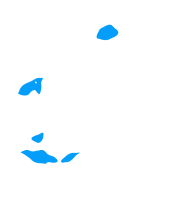
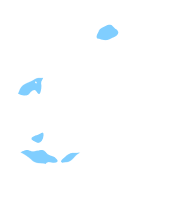
stupid gay ahh website

diff --git a/style.css b/style.css
@@ -22,7 +22,7 @@ body::-webkit-scrollbar {
 body {
     -ms-overflow-style: none;
     scrollbar-width: none;
-    background-color: #039dfc;
+    background-color: #80ceff;
     color: #000;
     font-family: 'Verdana', sans-serif;
     min-height: 100vh;
@@ -73,8 +73,10 @@ fieldset {
 }
 
 legend {
+    display: block;
     margin: 0 auto;
-    padding: 0 30px;
+    margin-top: 1000px;
+    padding: 0px 60px;
     font-size: 2.5rem;
     font-style: italic;
     text-transform: uppercase;
